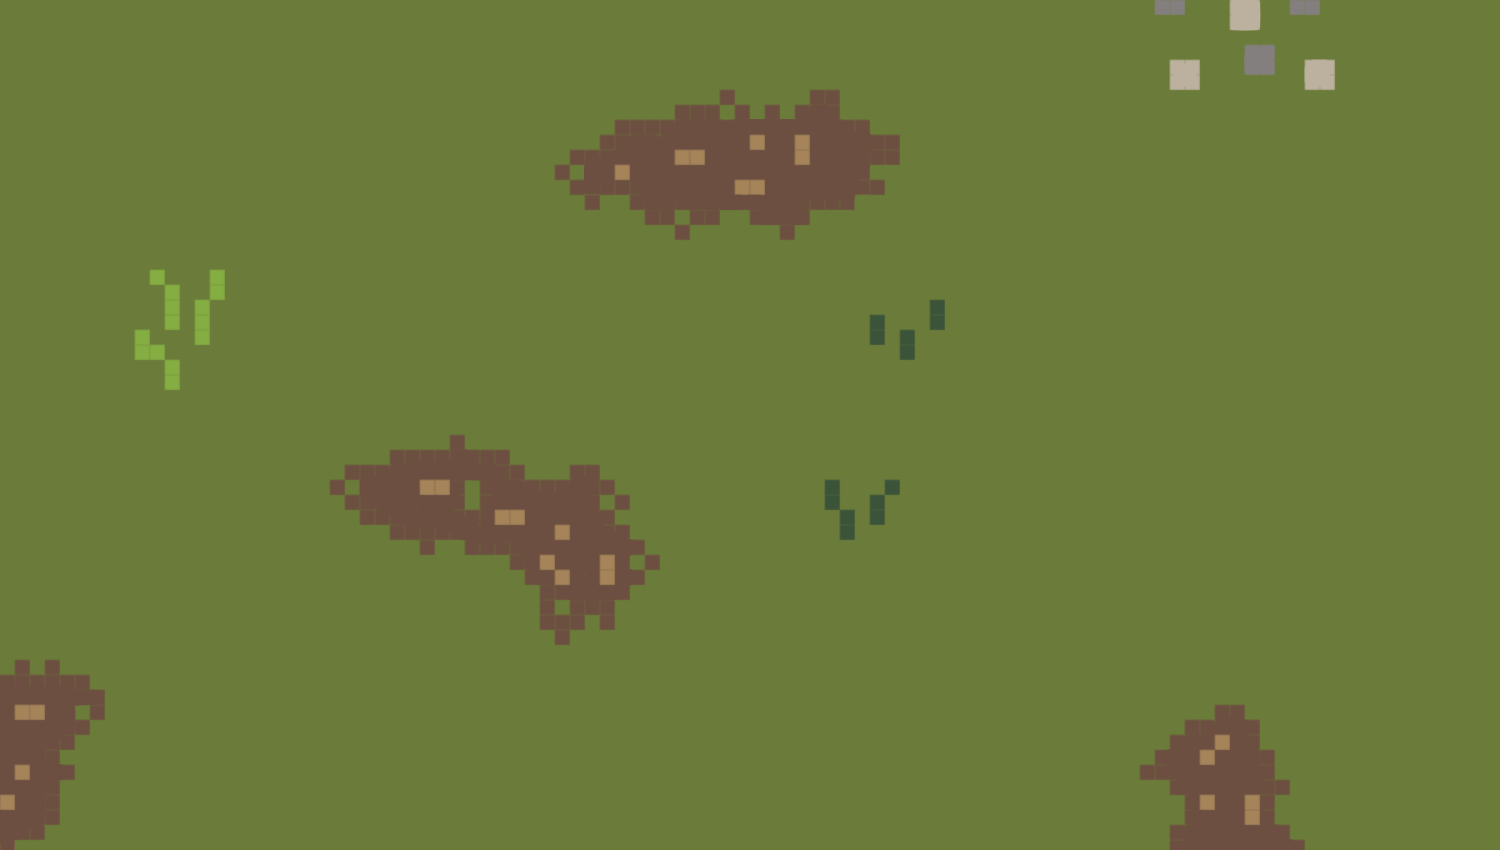
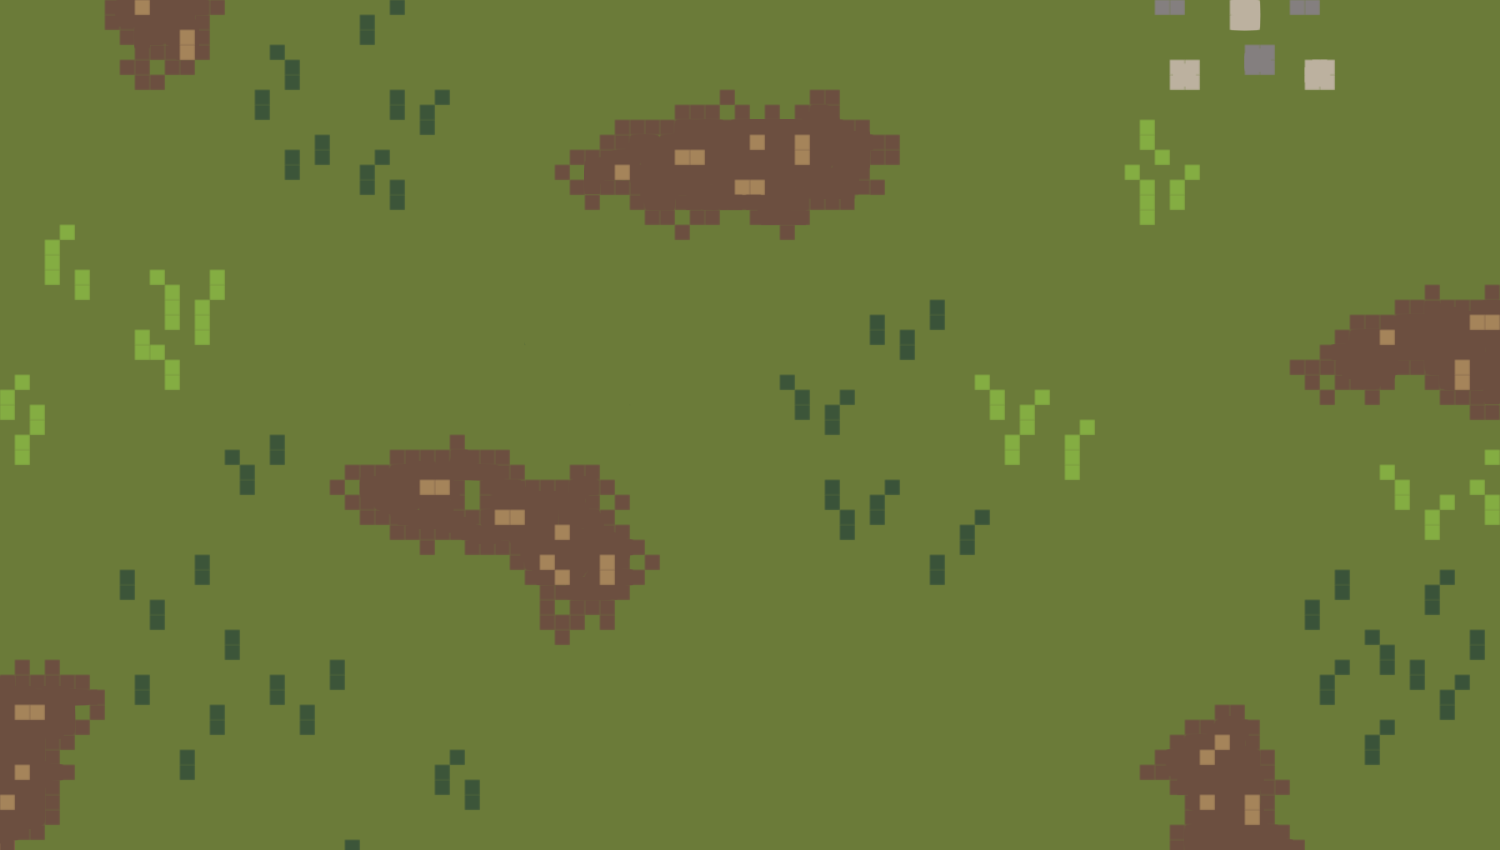
Map aktualisiert

diff --git a/script.js b/script.js
@@ -113,7 +113,7 @@
         damage: 17,
         numberOfShots: 5,
         tempNumberofShots: 5,
-        delayPerShot: 1, 
+        delayPerShot: 0.5, 
         tempDelayPerShot: 1,
         delayReload: 3,
         tempDelayReload: 3
@@ -227,17 +227,17 @@
         [0,0,0,1,0,0,0,0,0,0,0,0,0,0,0,0,0,0,0,0,0,0,0,1,0,0,0,0],
         [0,0,0,0,1,0,0,0,0,0,0,0,0,0,0,0,0,0,0,0,0,0,0,0,0,0,0,0],
         [0,0,0,0,0,0,0,0,0,0,1,1,1,0,0,0,0,0,0,0,0,0,0,0,0,0,0,0],
-        [0,0,0,0,0,0,0,0,0,0,0,1,0,0,0,0,0,0,1,1,1,0,0,0,1,0,0,0],
+        [0,0,0,0,0,0,0,0,0,0,0,1,0,0,0,0,0,0,1,1,0,0,0,0,1,0,0,0],
         [0,0,0,0,0,0,0,0,0,0,0,0,0,0,0,0,0,0,0,1,1,0,0,0,0,0,0,0],
         [0,0,1,1,0,0,0,0,0,0,0,0,0,0,0,0,0,0,0,0,1,0,0,0,0,0,0,0],
-        [0,0,1,1,0,0,0,0,0,0,0,0,0,0,0,0,0,0,0,0,0,0,0,0,0,0,0,0],
+        [0,0,1,0,0,0,0,0,0,0,0,0,0,0,0,0,0,0,0,0,0,0,0,0,0,0,0,0],
         [0,0,0,0,0,0,0,0,0,0,0,0,0,0,0,0,0,0,0,0,0,0,0,0,0,0,0,0],
         [0,0,0,0,0,0,0,0,0,0,0,0,0,0,0,0,0,0,0,0,0,0,0,0,1,1,0,0],
-        [0,0,0,0,0,0,0,1,1,1,0,0,0,0,0,0,0,0,0,0,0,0,0,0,0,1,0,0],
+        [0,0,0,0,0,0,0,1,0,0,0,0,0,0,0,0,0,0,0,0,0,0,0,0,0,1,0,0],
         [0,0,1,0,0,0,0,1,1,1,0,0,0,0,1,0,0,0,0,0,0,0,0,0,0,1,0,0],
-        [0,0,1,0,0,0,0,0,0,0,0,0,0,1,1,0,0,0,0,0,0,0,0,0,0,0,0,0],
-        [1,1,1,0,0,0,0,0,0,0,0,0,0,0,0,0,0,0,0,0,0,0,0,0,0,0,0,0],
-        [1,1,0,0,0,0,0,0,0,0,0,0,0,0,0,0,0,0,0,0,0,0,0,0,0,0,0,0]
+        [1,1,1,0,0,0,0,0,0,0,0,0,0,1,1,0,0,0,0,0,0,0,0,0,0,0,0,0],
+        [1,0,0,0,0,0,0,0,0,0,0,0,0,0,0,0,0,0,0,0,0,0,0,0,0,0,0,0],
+        [1,0,0,0,0,0,0,0,0,0,0,0,0,0,0,0,0,0,0,0,0,0,0,0,0,0,0,0]
     ]
 
 //#endregion
